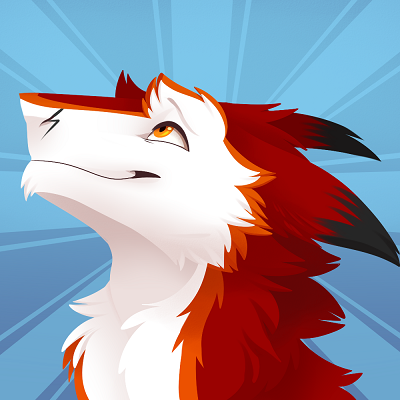
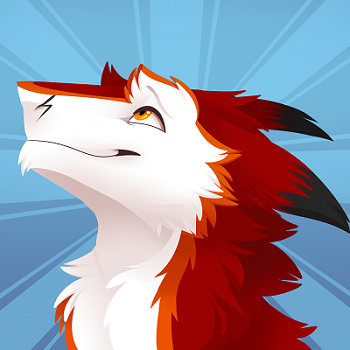
changes

diff --git a/index.html b/index.html
@@ -12,16 +12,14 @@
   </head>
   <body>
 <main>
-    <div class="container px-5">
+    <div class="container px-5 vertical-center">
     <div class="p-0 mb-3 rounded-3">
         <div class="container-fluid py-1 text-white">
-          <h1 class="display-5 fw-bold"><center>Beals</center></h1>
-          <hr>
           <div class="text-center">
-            <img src="img/icon.png" class="img-fluid" style="border-radius: 25px; border: 1px solid white;">
+            <img src="img/icon.png" class="img-fluid" style="border-radius: 25px; border: 1px solid black;">
           </div>
-          <hr>
           <p class="fs-4"><center>Hello There! You may call me Beals. I am currently red sergal from Oregon USA. I love video games, hiking, and those deep conversations about the meaning of life.</center></p>
+          <hr>
           <center>
             <a id="twitter_button" href="https://twitter.com/RedstoneOwl" type="button" class="btn btn-primary"> <img src="img/twitter.png"/><br>RedstoneOwl</a>
             <a id="fa_button" href="https://sfw.furaffinity.net/user/beals/" type="button" class="btn btn-primary"> <img src="img/fa.png"/><br>Beals</a>

diff --git a/css/style.css b/css/style.css
@@ -2,7 +2,6 @@
 Credit to generic.sucks for the website code.
 Images belong to their respective owners.
 More info can be found at /credit/.
-
 Source: https://github.com/Purpzie/sucks
 Generic.sucks source: https://github.com/memework/generic-sucks
 */
@@ -19,6 +18,14 @@ html, body {
 
 .images {
   display: none;
+}
+
+.vertical-center {
+  min-height: 50%;  /* Fallback for browsers do NOT support vh unit */
+  min-height: 50vh; /* These two lines are counted as one :-)       */
+
+  display: flex;
+  align-items: center;
 }
 
 canvas {
